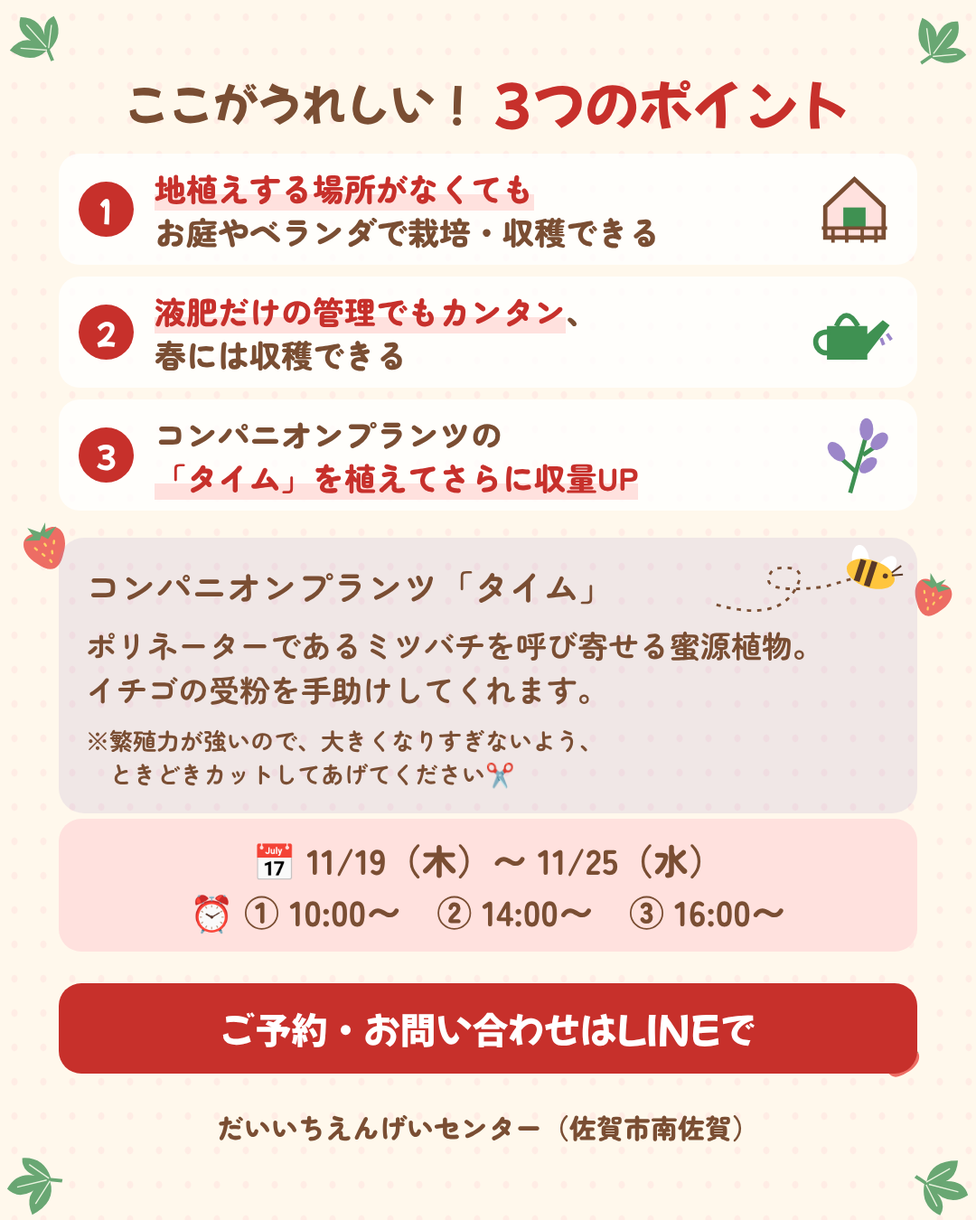
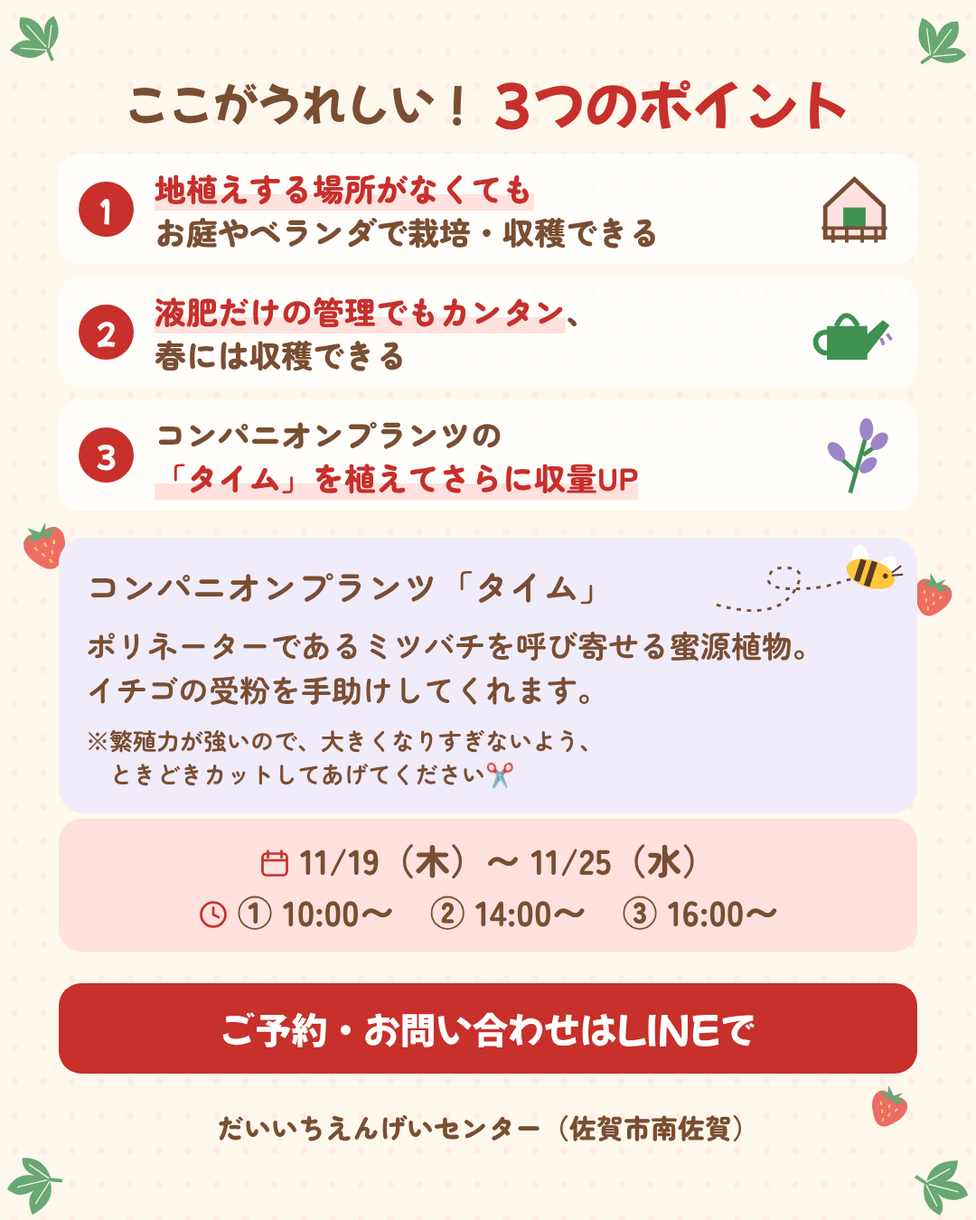
Polish strawberry workshop images after review
Claude-Session: https://claude.ai/code/session_012Ybix9cTiBCZgurjZkAhEi

Changed region(s): [[0.1833, 0.6844, 0.7944, 0.7778], [0.8861, 0.8711, 0.9472, 0.9333]]

diff --git a/workshop-ichigo-2026/src/style.css b/workshop-ichigo-2026/src/style.css
@@ -1,5 +1,10 @@
 :root{--berry:#E8473F;--berry-dk:#C7302B;--pink:#FFE1DE;--cream:#FFF8EC;--leaf:#3F9152;--mint:#E2F2DA;--soil:#7A4E33;--honey:#FFC53D;--thyme:#9C86C9;--pop:"Mochiy Pop One",sans-serif}
-*{box-sizing:border-box}body{margin:0;position:relative;width:1080px;height:1350px;background:radial-gradient(ellipse at center,#ffe1de85 0 3px,transparent 4px) 0 0/32px 38px,var(--cream);color:var(--soil);font:700 32px "Zen Maru Gothic","Noto Color Emoji",sans-serif}main{position:relative;height:100%}.decor i{position:absolute;opacity:.78}.decor{position:absolute;inset:0;pointer-events:none}h1,h2,h3,p,figure{margin:0}h1,h2,.badge,.price,.cta,.letter,.point-row>span{font-family:var(--pop);font-weight:400}h1{text-align:center;font-size:76px;line-height:1.24;letter-spacing:-.045em}em{font-style:normal;color:var(--berry-dk)}h1 em{font-size:1.65em;color:var(--berry);paint-order:stroke fill;-webkit-text-stroke:9px white;text-shadow:0 6px 0 var(--pink)}h2{position:absolute;left:0;right:0;top:71px;display:flex;justify-content:center;align-items:center;gap:14px;font-size:49px;white-space:nowrap}h2 em{font-size:1.2em}.photo{position:absolute;border:14px solid white;border-radius:28px;box-shadow:0 10px 24px rgba(122,78,51,.18);background:white}.photo img{display:block;width:100%;height:100%;border-radius:15px;object-fit:cover;object-position:center 60%}.photo:after{content:"";position:absolute;top:-13px;right:12px;width:119px;height:35px;background:#ffc0bdd9;transform:rotate(13deg);clip-path:polygon(2% 0,100% 0,98% 25%,100% 50%,98% 75%,100% 100%,0 100%,2% 75%,0 50%,2% 25%,0 0)}.badge{position:absolute;width:150px;height:150px;display:grid;place-items:center;transform:rotate(-8deg);color:var(--berry-dk);font-size:32px;filter:drop-shadow(0 4px 0 #b2692640);z-index:2}.badge svg,.badge span{grid-area:1/1}.badge svg{width:100%}.badge span{z-index:1}.begin{display:flex;align-items:center;gap:7px;white-space:nowrap;color:#2e7040;background:var(--mint);border-radius:100px;padding:6px 15px;font-weight:900}.cta{background:var(--berry-dk);color:white;border-radius:25px;text-align:center;display:grid;place-items:center;font-size:40px}footer{position:absolute;left:70px;right:70px;bottom:32px;font-size:26px;font-weight:900}footer span{float:right}.line{width:1040px;height:1040px}.line h1{position:absolute;top:55px;left:190px;right:190px;font-size:72px;white-space:nowrap}.line .badge{top:43px;left:38px}.line .begin{position:absolute;right:32px;top:38px;font-size:30px;gap:5px;padding:5px 11px}.line .begin svg{width:31px;height:34px}.line .primary{left:78px;top:305px;width:648px;height:441px;transform:rotate(-2deg)}.line .secondary{right:70px;top:407px;width:303px;height:315px;transform:rotate(3deg)}.secondary img,.plan .photo img{object-position:center 55%}.line-info{position:absolute;top:767px;left:66px;right:66px;display:grid;grid-template-columns:1.15fr 1fr;gap:18px;text-align:center;font-size:38px;font-weight:900;white-space:nowrap}.line-info div{background:var(--pink);border-radius:22px;padding:6px 10px}.line-info div+div{background:white}.line-info strong{font:400 44px var(--pop);color:var(--berry-dk)}.bring-line{position:absolute;top:843px;left:0;right:0;text-align:center;font-size:32px;font-weight:900}.line .cta{position:absolute;top:902px;left:34px;right:34px;height:96px;box-shadow:0 6px 0 #a92320;background:var(--berry)}
+*{box-sizing:border-box}body{margin:0;position:relative;width:1080px;height:1350px;background:radial-gradient(ellipse at center,#ffe1de85 0 3px,transparent 4px) 0 0/32px 38px,var(--cream);color:var(--soil);font:700 32px "Zen Maru Gothic","Noto Color Emoji",sans-serif}main{position:relative;height:100%}.decor i{position:absolute;opacity:.78}.decor{position:absolute;inset:0;pointer-events:none}h1,h2,h3,p,figure{margin:0}h1,h2,.badge,.price,.cta,.letter,.point-row>span{font-family:var(--pop);font-weight:400}h1{text-align:center;font-size:76px;line-height:1.24;letter-spacing:-.045em}em{font-style:normal;color:var(--berry-dk)}h1 em{font-size:1.65em;color:var(--berry);paint-order:stroke fill;-webkit-text-stroke:9px white;text-shadow:0 6px 0 var(--pink)}h2{position:absolute;left:0;right:0;top:71px;display:flex;justify-content:center;align-items:center;gap:14px;font-size:49px;white-space:nowrap}h2 em{font-size:1.2em}.photo{position:absolute;border:14px solid white;border-radius:28px;box-shadow:0 10px 24px rgba(122,78,51,.18);background:white}.photo img{display:block;width:100%;height:100%;border-radius:15px;object-fit:cover;object-position:center 60%}.photo:after{content:"";position:absolute;top:-13px;right:12px;width:119px;height:35px;background:#ffc0bdd9;transform:rotate(13deg);clip-path:polygon(2% 0,100% 0,98% 25%,100% 50%,98% 75%,100% 100%,0 100%,2% 75%,0 50%,2% 25%,0 0)}.badge{position:absolute;width:150px;height:150px;display:grid;place-items:center;transform:rotate(-8deg);color:var(--berry-dk);font-size:32px;filter:drop-shadow(0 4px 0 #b2692640);z-index:2}.badge svg,.badge span{grid-area:1/1}.badge svg{width:100%}.badge span{z-index:1}.begin{display:flex;align-items:center;gap:7px;white-space:nowrap;color:#2e7040;background:var(--mint);border-radius:100px;padding:6px 15px;font-weight:900}.cta{background:var(--berry-dk);color:white;border-radius:25px;text-align:center;display:grid;place-items:center;font-size:40px}footer{position:absolute;left:70px;right:70px;bottom:32px;font-size:26px;font-weight:900}footer span{float:right}.line{width:1040px;height:1040px}.line h1{position:absolute;top:55px;left:190px;right:190px;font-size:72px;white-space:nowrap}.line .badge{top:43px;left:38px}.line .begin{position:absolute;right:32px;top:38px;font-size:30px;gap:5px;padding:5px 11px}.line .begin svg{width:31px;height:34px}.line .primary{left:78px;top:305px;width:648px;height:441px;transform:rotate(-2deg)}.line .secondary{right:70px;top:407px;width:303px;height:315px;transform:rotate(3deg)}.secondary img{object-position:center 55%}.line-info{position:absolute;top:767px;left:66px;right:66px;display:grid;grid-template-columns:1.15fr 1fr;gap:18px;text-align:center;font-size:38px;font-weight:900;white-space:nowrap}.line-info div{background:var(--pink);border-radius:22px;padding:6px 10px}.line-info div+div{background:white}.line-info strong{font:400 44px var(--pop);color:var(--berry-dk)}.bring-line{position:absolute;top:843px;left:0;right:0;text-align:center;font-size:32px;font-weight:900}.line .cta{position:absolute;top:902px;left:34px;right:34px;height:96px;box-shadow:0 6px 0 #a92320;background:var(--berry)}
 .cover .photo{left:90px;top:53px;width:900px;height:705px;transform:rotate(-1.5deg)}.cover .badge{left:52px;top:34px}.cover h1{position:absolute;top:772px;width:100%;font-size:83px;line-height:1.13}.cover h1 em{font-size:130px}.sub{position:absolute;top:1042px;width:100%;text-align:center;color:#2e7040;font-size:36px;font-weight:900;white-space:nowrap}.schedule{position:absolute;top:1111px;left:64px;right:64px;background:var(--pink);border-radius:22px;text-align:center;padding:13px;font-size:36px;font-weight:900;white-space:nowrap}.cover .begin{position:absolute;right:70px;bottom:78px;font-size:29px}
-.cards{position:absolute;top:180px;left:66px;right:66px;display:grid;gap:24px}.plan-card{position:relative;height:151px;display:flex;align-items:center;gap:16px;background:white;border:5px solid white;border-radius:24px;padding:0 26px;box-shadow:0 8px 19px #7a4e3325;white-space:nowrap}.plan-card b{font-size:40px;font-weight:900}.letter{font-size:38px;color:var(--berry-dk)}.pot{width:135px;flex:none;display:flex;flex-wrap:wrap;justify-content:center;align-content:center}.pot>svg:last-child{margin-top:-4px}.price{margin-left:auto;color:var(--berry-dk);font-size:60px;white-space:nowrap}.price small{font-size:60%;margin-right:.08em}.recommended{border-color:var(--leaf)}.ribbon{position:absolute;right:21px;top:-25px;background:var(--leaf);color:white;padding:3px 16px;border-radius:8px;font:400 25px var(--pop)}.carry{position:absolute;top:721px;left:66px;right:66px;background:var(--mint);border-radius:26px;padding:20px 25px;color:#2d653a}.carry h3{text-align:center;font-size:37px;font-weight:900}.carry>div{display:grid;grid-template-columns:1fr 1fr;margin-top:13px}.carry p{display:flex;align-items:center;gap:11px;justify-content:center;font-size:31px;white-space:nowrap}.carry p+p{border-left:2px dashed #75a77e}.carry .price{font-size:43px;margin-left:0}.plan .photo{top:931px;right:95px;width:306px;height:325px;transform:rotate(2deg)}.caption{position:absolute;right:75px;top:1210px;transform:rotate(-5deg);background:var(--honey);border-radius:4px;padding:5px 16px;font-size:26px;font-weight:900}
-.points{position:absolute;top:170px;left:65px;right:65px;display:grid;gap:13px}.point-row{display:grid;grid-template-columns:65px 1fr 95px;gap:19px;align-items:center;padding:12px 22px;background:#ffffffc9;border-radius:23px;min-height:123px}.point-row>span{display:grid;place-items:center;width:61px;height:61px;background:var(--berry-dk);border-radius:50%;color:white;font-size:32px}.point-row p{font-size:35px;font-weight:900;line-height:1.35;white-space:nowrap}mark{color:var(--berry-dk);background:linear-gradient(transparent 65%,var(--pink) 65%)}.thyme{position:absolute;top:595px;left:65px;right:65px;background:#9c86c926;border-radius:28px;padding:25px 30px}.thyme h3{font-size:39px;padding-bottom:14px}.thyme p{font-size:34px;line-height:1.43}.thyme .note{font-size:26px;margin-top:13px}.bee{position:absolute;width:218px;right:7px;top:5px}.dates{position:absolute;top:906px;left:65px;right:65px;background:var(--pink);border-radius:25px;text-align:center;padding:17px;font-weight:900;font-size:39px;line-height:1.45;white-space:nowrap}.point .cta{position:absolute;top:1088px;left:65px;right:65px;height:100px}.point footer{text-align:center;bottom:81px;font-size:30px}
+.cards{position:absolute;top:180px;left:66px;right:66px;display:grid;gap:24px}.plan-card{position:relative;height:151px;display:flex;align-items:center;gap:16px;background:white;border:5px solid white;border-radius:24px;padding:0 26px;box-shadow:0 8px 19px #7a4e3325;white-space:nowrap}.plan-card b{font-size:40px;font-weight:900}.letter{font-size:38px;color:var(--berry-dk)}.pot{width:135px;flex:none;display:flex;flex-wrap:wrap;justify-content:center;align-content:center}.pot>svg:last-child{margin-top:-4px}.price{margin-left:auto;color:var(--berry-dk);font-size:60px;white-space:nowrap}.price small{font-size:60%;margin-right:.08em}.recommended{border-color:var(--leaf)}.ribbon{position:absolute;right:21px;top:-25px;background:var(--leaf);color:white;padding:3px 16px;border-radius:8px;font:400 25px var(--pop)}.carry{position:absolute;top:721px;left:66px;right:66px;background:var(--mint);border-radius:26px;padding:20px 25px;color:#2d653a}.carry h3{text-align:center;font-size:37px;font-weight:900}.carry>div{display:grid;grid-template-columns:1fr 1fr;margin-top:13px}.carry p{display:flex;align-items:center;gap:11px;justify-content:center;font-size:31px;white-space:nowrap}.carry p+p{border-left:2px dashed #75a77e}.carry .price{font-size:43px;margin-left:0}.plan .photo{top:905px;width:440px;height:302px}.plan .primary{left:91px;transform:rotate(-2deg)}.plan .secondary{right:91px;transform:rotate(2deg)}.caption{position:absolute;left:50%;top:1178px;translate:-50% 0;transform:rotate(-5deg);background:var(--honey);border-radius:4px;padding:5px 16px;font-size:26px;font-weight:900}
+.points{position:absolute;top:170px;left:65px;right:65px;display:grid;gap:13px}.point-row{display:grid;grid-template-columns:65px 1fr 95px;gap:19px;align-items:center;padding:12px 22px;background:#ffffffc9;border-radius:23px;min-height:123px}.point-row>span{display:grid;place-items:center;width:61px;height:61px;background:var(--berry-dk);border-radius:50%;color:white;font-size:32px}.point-row p{font-size:35px;font-weight:900;line-height:1.35;white-space:nowrap}mark{color:var(--berry-dk);background:linear-gradient(transparent 65%,var(--pink) 65%)}.thyme{position:absolute;top:595px;left:65px;right:65px;background:#F1ECFA;border-radius:28px;padding:25px 30px}.thyme h3{font-size:39px;padding-bottom:14px}.thyme p{font-size:34px;line-height:1.43}.thyme .note{font-size:26px;margin-top:13px}.bee{position:absolute;width:218px;right:7px;top:5px}.dates{position:absolute;top:906px;left:65px;right:65px;background:var(--pink);border-radius:25px;text-align:center;padding:17px;font-weight:900;font-size:39px;line-height:1.45;white-space:nowrap}.point .cta{position:absolute;top:1088px;left:65px;right:65px;height:100px}.point footer{text-align:center;bottom:81px;font-size:30px}
+
+.inline-icon{vertical-align:-.13em;margin-right:.23em;color:var(--berry-dk)}
+.carry .inline-icon{color:var(--leaf)}
+.plan footer{bottom:80px}
+.plan-booking{position:absolute;left:66px;right:66px;bottom:23px;padding:6px;background:var(--pink);border-radius:16px;text-align:center;font-size:24px;font-weight:900;white-space:nowrap}

diff --git a/workshop-ichigo-2026/src/insta_02_plan.html b/workshop-ichigo-2026/src/insta_02_plan.html
@@ -5,4 +5,4 @@
 <symbol id="thyme" viewBox="0 0 100 100"><path stroke="#3F9152" stroke-width="5" fill="none" d="M45 94 66 19M52 70 29 49m31 1 19-13"/><g fill="#9C86C9"><ellipse cx="64" cy="20" rx="8" ry="13"/><ellipse cx="79" cy="34" rx="8" ry="12" transform="rotate(45 79 34)"/><ellipse cx="29" cy="46" rx="8" ry="13" transform="rotate(-40 29 46)"/><ellipse cx="66" cy="62" rx="7" ry="12" transform="rotate(50 66 62)"/></g></symbol>
 <symbol id="house" viewBox="0 0 100 100"><path fill="#FFE1DE" stroke="#7A4E33" stroke-width="5" d="M16 47 50 15l34 32v36H16Z"/><path fill="#3F9152" d="M37 48h26v23H37z"/><path stroke="#7A4E33" stroke-width="4" d="M12 72h76M25 72v17m16-17v17m18-17v17m16-17v17"/></symbol>
 <symbol id="water" viewBox="0 0 100 100"><path fill="#3F9152" d="M18 43h47v39H18zM59 58l24-22 8 6-27 35Z"/><path fill="none" stroke="#3F9152" stroke-width="6" d="M22 50C-3 47 2 77 20 74m9-31q11-25 25 0"/><path stroke="#9C86C9" stroke-width="4" d="m88 52 5 7m-12-2 3 8"/></symbol>
-</defs></svg><div class="decor"><i style="left:10px;top:10px;transform:rotate(-38deg)"><svg width="68" height="68" aria-hidden="true"><use href="#leaf"/></svg></i><i style="left:1000px;top:12px;transform:rotate(40deg)"><svg width="70" height="70" aria-hidden="true"><use href="#leaf"/></svg></i><i style="left:10px;top:1271px;transform:rotate(-100deg)"><svg width="70" height="70" aria-hidden="true"><use href="#leaf"/></svg></i><i style="left:1001px;top:1270px;transform:rotate(108deg)"><svg width="70" height="70" aria-hidden="true"><use href="#leaf"/></svg></i><i style="left:22px;top:575px;transform:rotate(-21deg)"><svg width="61" height="61" aria-hidden="true"><use href="#berry"/></svg></i><i style="left:1003px;top:633px;transform:rotate(19deg)"><svg width="54" height="54" aria-hidden="true"><use href="#berry"/></svg></i><i style="left:968px;top:1145px;transform:rotate(24deg)"><svg width="52" height="52" aria-hidden="true"><use href="#berry"/></svg></i></div><main><h2><svg width="66" height="66" aria-hidden="true"><use href="#berry"/></svg>えらべる <em>3つのプラン</em></h2><div class="cards"><article class="plan-card "><div class="pot"><svg width="37" height="37" aria-hidden="true"><use href="#berry"/></svg><svg viewBox="0 0 125 47" width="125" height="47" aria-hidden="true"><path fill="#E4AD88" d="M8 10h109l-13 33H21Z"/><rect fill="#BA7856" x="3" y="3" width="119" height="12" rx="5"/></svg></div><span class="letter">A.</span><b>1株植え</b><strong class="price"><small>¥</small>1,800</strong></article><article class="plan-card "><div class="pot"><svg width="37" height="37" aria-hidden="true"><use href="#berry"/></svg><svg width="37" height="37" aria-hidden="true"><use href="#berry"/></svg><svg viewBox="0 0 125 47" width="125" height="47" aria-hidden="true"><path fill="#E4AD88" d="M8 10h109l-13 33H21Z"/><rect fill="#BA7856" x="3" y="3" width="119" height="12" rx="5"/></svg></div><span class="letter">B.</span><b>2株植え</b><strong class="price"><small>¥</small>3,000</strong></article><article class="plan-card recommended"><div class="pot"><svg width="37" height="37" aria-hidden="true"><use href="#berry"/></svg><svg width="37" height="37" aria-hidden="true"><use href="#berry"/></svg><svg width="41" height="41" aria-hidden="true"><use href="#thyme"/></svg><svg viewBox="0 0 125 47" width="125" height="47" aria-hidden="true"><path fill="#E4AD88" d="M8 10h109l-13 33H21Z"/><rect fill="#BA7856" x="3" y="3" width="119" height="12" rx="5"/></svg></div><span class="letter">C.</span><b>2株＋タイムの混植</b><strong class="price"><small>¥</small>3,200</strong><span class="ribbon">おすすめ！</span></article></div><section class="carry"><h3>♻ 夏野菜後のプランター持ち込みの方！</h3><div><p>❶ 1株植え <strong class="price"><small>¥</small>1,500</strong></p><p>❷ 贅沢3株植え <strong class="price"><small>¥</small>3,000</strong></p></div></section><figure class="photo "><img src="../photos/photo2.jpg" alt="イチゴのプランター"></figure><div class="caption">完成イメージ</div><footer>だいいちえんげいセンター</footer></main></body></html>
+</defs></svg><div class="decor"><i style="left:10px;top:10px;transform:rotate(-38deg)"><svg width="68" height="68" aria-hidden="true"><use href="#leaf"/></svg></i><i style="left:1000px;top:12px;transform:rotate(40deg)"><svg width="70" height="70" aria-hidden="true"><use href="#leaf"/></svg></i><i style="left:10px;top:1271px;transform:rotate(-100deg)"><svg width="70" height="70" aria-hidden="true"><use href="#leaf"/></svg></i><i style="left:1001px;top:1270px;transform:rotate(108deg)"><svg width="70" height="70" aria-hidden="true"><use href="#leaf"/></svg></i><i style="left:22px;top:575px;transform:rotate(-21deg)"><svg width="61" height="61" aria-hidden="true"><use href="#berry"/></svg></i><i style="left:1003px;top:633px;transform:rotate(19deg)"><svg width="54" height="54" aria-hidden="true"><use href="#berry"/></svg></i><i style="left:968px;top:1145px;transform:rotate(24deg)"><svg width="52" height="52" aria-hidden="true"><use href="#berry"/></svg></i></div><main><h2><svg width="66" height="66" aria-hidden="true"><use href="#berry"/></svg>えらべる <em>3つのプラン</em></h2><div class="cards"><article class="plan-card "><div class="pot"><svg width="37" height="37" aria-hidden="true"><use href="#berry"/></svg><svg viewBox="0 0 125 47" width="125" height="47" aria-hidden="true"><path fill="#E4AD88" d="M8 10h109l-13 33H21Z"/><rect fill="#BA7856" x="3" y="3" width="119" height="12" rx="5"/></svg></div><span class="letter">A.</span><b>1株植え</b><strong class="price"><small>¥</small>1,800</strong></article><article class="plan-card "><div class="pot"><svg width="37" height="37" aria-hidden="true"><use href="#berry"/></svg><svg width="37" height="37" aria-hidden="true"><use href="#berry"/></svg><svg viewBox="0 0 125 47" width="125" height="47" aria-hidden="true"><path fill="#E4AD88" d="M8 10h109l-13 33H21Z"/><rect fill="#BA7856" x="3" y="3" width="119" height="12" rx="5"/></svg></div><span class="letter">B.</span><b>2株植え</b><strong class="price"><small>¥</small>3,000</strong></article><article class="plan-card recommended"><div class="pot"><svg width="37" height="37" aria-hidden="true"><use href="#berry"/></svg><svg width="37" height="37" aria-hidden="true"><use href="#berry"/></svg><svg width="41" height="41" aria-hidden="true"><use href="#thyme"/></svg><svg viewBox="0 0 125 47" width="125" height="47" aria-hidden="true"><path fill="#E4AD88" d="M8 10h109l-13 33H21Z"/><rect fill="#BA7856" x="3" y="3" width="119" height="12" rx="5"/></svg></div><span class="letter">C.</span><b>2株＋タイムの混植</b><strong class="price"><small>¥</small>3,200</strong><span class="ribbon">おすすめ！</span></article></div><section class="carry"><h3><svg class="inline-icon" viewBox="0 0 24 24" width="36" height="36" fill="none" stroke="currentColor" stroke-width="1.8" stroke-linecap="round" stroke-linejoin="round" aria-hidden="true"><path d="m8 7 2-3a2 2 0 0 1 4 0l3 5m-4-1 4 1 1-4m1 8 2 3a2 2 0 0 1-2 3h-6m3-3-3 3 3 3m-7-3H5a2 2 0 0 1-2-3l3-6m1 4-1-4-4 1"/></svg>夏野菜後のプランター持ち込みの方！</h3><div><p>❶ 1株植え <strong class="price"><small>¥</small>1,500</strong></p><p>❷ 贅沢3株植え <strong class="price"><small>¥</small>3,000</strong></p></div></section><figure class="photo primary"><img src="../photos/photo1.jpg" alt="3つの容器に植えたイチゴ"></figure><figure class="photo secondary"><img src="../photos/photo2.jpg" alt="イチゴのプランター"></figure><div class="caption">完成イメージ</div><footer>だいいちえんげいセンター</footer><div class="plan-booking">11/19(木)〜11/25(水)　ご予約はLINEで</div></main></body></html>

diff --git a/workshop-ichigo-2026/src/insta_03_point.html b/workshop-ichigo-2026/src/insta_03_point.html
@@ -5,4 +5,4 @@
 <symbol id="thyme" viewBox="0 0 100 100"><path stroke="#3F9152" stroke-width="5" fill="none" d="M45 94 66 19M52 70 29 49m31 1 19-13"/><g fill="#9C86C9"><ellipse cx="64" cy="20" rx="8" ry="13"/><ellipse cx="79" cy="34" rx="8" ry="12" transform="rotate(45 79 34)"/><ellipse cx="29" cy="46" rx="8" ry="13" transform="rotate(-40 29 46)"/><ellipse cx="66" cy="62" rx="7" ry="12" transform="rotate(50 66 62)"/></g></symbol>
 <symbol id="house" viewBox="0 0 100 100"><path fill="#FFE1DE" stroke="#7A4E33" stroke-width="5" d="M16 47 50 15l34 32v36H16Z"/><path fill="#3F9152" d="M37 48h26v23H37z"/><path stroke="#7A4E33" stroke-width="4" d="M12 72h76M25 72v17m16-17v17m18-17v17m16-17v17"/></symbol>
 <symbol id="water" viewBox="0 0 100 100"><path fill="#3F9152" d="M18 43h47v39H18zM59 58l24-22 8 6-27 35Z"/><path fill="none" stroke="#3F9152" stroke-width="6" d="M22 50C-3 47 2 77 20 74m9-31q11-25 25 0"/><path stroke="#9C86C9" stroke-width="4" d="m88 52 5 7m-12-2 3 8"/></symbol>
-</defs></svg><div class="decor"><i style="left:10px;top:10px;transform:rotate(-38deg)"><svg width="68" height="68" aria-hidden="true"><use href="#leaf"/></svg></i><i style="left:1000px;top:12px;transform:rotate(40deg)"><svg width="70" height="70" aria-hidden="true"><use href="#leaf"/></svg></i><i style="left:10px;top:1271px;transform:rotate(-100deg)"><svg width="70" height="70" aria-hidden="true"><use href="#leaf"/></svg></i><i style="left:1001px;top:1270px;transform:rotate(108deg)"><svg width="70" height="70" aria-hidden="true"><use href="#leaf"/></svg></i><i style="left:22px;top:575px;transform:rotate(-21deg)"><svg width="61" height="61" aria-hidden="true"><use href="#berry"/></svg></i><i style="left:1003px;top:633px;transform:rotate(19deg)"><svg width="54" height="54" aria-hidden="true"><use href="#berry"/></svg></i><i style="left:968px;top:1145px;transform:rotate(24deg)"><svg width="52" height="52" aria-hidden="true"><use href="#berry"/></svg></i></div><main><h2>ここがうれしい！ <em>3つのポイント</em></h2><div class="points"><article class="point-row"><span>1</span><p><mark>地植えする場所がなくても</mark><br>お庭やベランダで栽培・収穫できる</p><svg width="95" height="95" aria-hidden="true"><use href="#house"/></svg></article><article class="point-row"><span>2</span><p><mark>液肥だけの管理でもカンタン</mark>、<br>春には収穫できる</p><svg width="95" height="95" aria-hidden="true"><use href="#water"/></svg></article><article class="point-row"><span>3</span><p>コンパニオンプランツの<br><mark>「タイム」を植えてさらに収量UP</mark></p><svg width="95" height="95" aria-hidden="true"><use href="#thyme"/></svg></article></div><section class="thyme"><svg class="bee" viewBox="0 0 230 91" aria-hidden="true"><path d="M3 73Q71 92 93 58T70 31Q43 62 129 52l31-9" fill="none" stroke="#7A4E33" stroke-width="3" stroke-dasharray="5 7"/><g transform="translate(183 37) rotate(18)"><ellipse fill="white" cx="-10" cy="-18" rx="10" ry="17" transform="rotate(-24)"/><ellipse fill="white" cx="9" cy="-18" rx="9" ry="15" transform="rotate(22)"/><ellipse fill="#FFC53D" rx="29" ry="16"/><path stroke="#583827" stroke-width="7" d="M-13-13v26M0-15v30"/><circle cx="17" cy="-3" r="3" fill="#583827"/><path stroke="#583827" stroke-width="2" fill="none" d="m23-9 8-11m-7 14 12-5"/></g></svg><h3>コンパニオンプランツ「タイム」</h3><p>ポリネーターであるミツバチを呼び寄せる蜜源植物。<br>イチゴの受粉を手助けしてくれます。</p><p class="note">※繁殖力が強いので、大きくなりすぎないよう、<br>　ときどきカットしてあげてください✂</p></section><div class="dates"><div>📅 11/19（木）〜 11/25（水）</div><div>⏰ ① 10:00〜　② 14:00〜　③ 16:00〜</div></div><div class="cta">ご予約・お問い合わせはLINEで</div><footer>だいいちえんげいセンター（佐賀市南佐賀）</footer></main></body></html>
+</defs></svg><div class="decor"><i style="left:10px;top:10px;transform:rotate(-38deg)"><svg width="68" height="68" aria-hidden="true"><use href="#leaf"/></svg></i><i style="left:1000px;top:12px;transform:rotate(40deg)"><svg width="70" height="70" aria-hidden="true"><use href="#leaf"/></svg></i><i style="left:10px;top:1271px;transform:rotate(-100deg)"><svg width="70" height="70" aria-hidden="true"><use href="#leaf"/></svg></i><i style="left:1001px;top:1270px;transform:rotate(108deg)"><svg width="70" height="70" aria-hidden="true"><use href="#leaf"/></svg></i><i style="left:22px;top:575px;transform:rotate(-21deg)"><svg width="61" height="61" aria-hidden="true"><use href="#berry"/></svg></i><i style="left:1003px;top:633px;transform:rotate(19deg)"><svg width="54" height="54" aria-hidden="true"><use href="#berry"/></svg></i><i style="left:955px;top:1200px;transform:rotate(24deg)"><svg width="52" height="52" aria-hidden="true"><use href="#berry"/></svg></i></div><main><h2>ここがうれしい！ <em>3つのポイント</em></h2><div class="points"><article class="point-row"><span>1</span><p><mark>地植えする場所がなくても</mark><br>お庭やベランダで栽培・収穫できる</p><svg width="95" height="95" aria-hidden="true"><use href="#house"/></svg></article><article class="point-row"><span>2</span><p><mark>液肥だけの管理でもカンタン</mark>、<br>春には収穫できる</p><svg width="95" height="95" aria-hidden="true"><use href="#water"/></svg></article><article class="point-row"><span>3</span><p>コンパニオンプランツの<br><mark>「タイム」を植えてさらに収量UP</mark></p><svg width="95" height="95" aria-hidden="true"><use href="#thyme"/></svg></article></div><section class="thyme"><svg class="bee" viewBox="0 0 230 91" aria-hidden="true"><path d="M3 73Q71 92 93 58T70 31Q43 62 129 52l31-9" fill="none" stroke="#7A4E33" stroke-width="3" stroke-dasharray="5 7"/><g transform="translate(183 37) rotate(18)"><ellipse fill="white" cx="-10" cy="-18" rx="10" ry="17" transform="rotate(-24)"/><ellipse fill="white" cx="9" cy="-18" rx="9" ry="15" transform="rotate(22)"/><ellipse fill="#FFC53D" rx="29" ry="16"/><path stroke="#583827" stroke-width="7" d="M-13-13v26M0-15v30"/><circle cx="17" cy="-3" r="3" fill="#583827"/><path stroke="#583827" stroke-width="2" fill="none" d="m23-9 8-11m-7 14 12-5"/></g></svg><h3>コンパニオンプランツ「タイム」</h3><p>ポリネーターであるミツバチを呼び寄せる蜜源植物。<br>イチゴの受粉を手助けしてくれます。</p><p class="note">※繁殖力が強いので、大きくなりすぎないよう、<br>　ときどきカットしてあげてください✂</p></section><div class="dates"><div><svg class="inline-icon" viewBox="0 0 24 24" width="36" height="36" fill="none" stroke="currentColor" stroke-width="1.8" stroke-linecap="round" stroke-linejoin="round" aria-hidden="true"><rect x="3" y="5" width="18" height="16" rx="3"/><path d="M7 3v5m10-5v5M3 10h18"/></svg>11/19（木）〜 11/25（水）</div><div><svg class="inline-icon" viewBox="0 0 24 24" width="36" height="36" fill="none" stroke="currentColor" stroke-width="1.8" stroke-linecap="round" stroke-linejoin="round" aria-hidden="true"><circle cx="12" cy="12" r="9"/><path d="M12 7v5l4 2"/></svg>① 10:00〜　② 14:00〜　③ 16:00〜</div></div><div class="cta">ご予約・お問い合わせはLINEで</div><footer>だいいちえんげいセンター（佐賀市南佐賀）</footer></main></body></html>

diff --git a/workshop-ichigo-2026/src/line_rich_1040.html b/workshop-ichigo-2026/src/line_rich_1040.html
@@ -5,4 +5,4 @@
 <symbol id="thyme" viewBox="0 0 100 100"><path stroke="#3F9152" stroke-width="5" fill="none" d="M45 94 66 19M52 70 29 49m31 1 19-13"/><g fill="#9C86C9"><ellipse cx="64" cy="20" rx="8" ry="13"/><ellipse cx="79" cy="34" rx="8" ry="12" transform="rotate(45 79 34)"/><ellipse cx="29" cy="46" rx="8" ry="13" transform="rotate(-40 29 46)"/><ellipse cx="66" cy="62" rx="7" ry="12" transform="rotate(50 66 62)"/></g></symbol>
 <symbol id="house" viewBox="0 0 100 100"><path fill="#FFE1DE" stroke="#7A4E33" stroke-width="5" d="M16 47 50 15l34 32v36H16Z"/><path fill="#3F9152" d="M37 48h26v23H37z"/><path stroke="#7A4E33" stroke-width="4" d="M12 72h76M25 72v17m16-17v17m18-17v17m16-17v17"/></symbol>
 <symbol id="water" viewBox="0 0 100 100"><path fill="#3F9152" d="M18 43h47v39H18zM59 58l24-22 8 6-27 35Z"/><path fill="none" stroke="#3F9152" stroke-width="6" d="M22 50C-3 47 2 77 20 74m9-31q11-25 25 0"/><path stroke="#9C86C9" stroke-width="4" d="m88 52 5 7m-12-2 3 8"/></symbol>
-</defs></svg><div class="decor"><i style="left:10px;top:10px;transform:rotate(-38deg)"><svg width="68" height="68" aria-hidden="true"><use href="#leaf"/></svg></i><i style="left:960px;top:12px;transform:rotate(40deg)"><svg width="70" height="70" aria-hidden="true"><use href="#leaf"/></svg></i><i style="left:10px;top:961px;transform:rotate(-100deg)"><svg width="70" height="70" aria-hidden="true"><use href="#leaf"/></svg></i><i style="left:961px;top:960px;transform:rotate(108deg)"><svg width="70" height="70" aria-hidden="true"><use href="#leaf"/></svg></i><i style="left:22px;top:420px;transform:rotate(-21deg)"><svg width="61" height="61" aria-hidden="true"><use href="#berry"/></svg></i><i style="left:963px;top:478px;transform:rotate(19deg)"><svg width="54" height="54" aria-hidden="true"><use href="#berry"/></svg></i><i style="left:928px;top:835px;transform:rotate(24deg)"><svg width="52" height="52" aria-hidden="true"><use href="#berry"/></svg></i></div><main><div class="badge"><svg viewBox="0 0 150 150"><polygon fill="#FFC53D" points="146.00,75.00 139.44,83.48 143.58,93.38 135.05,99.87 136.49,110.50 126.57,114.57 125.20,125.20 114.57,126.57 110.50,136.49 99.87,135.05 93.38,143.58 83.48,139.44 75.00,146.00 66.52,139.44 56.62,143.58 50.13,135.05 39.50,136.49 35.43,126.57 24.80,125.20 23.43,114.57 13.51,110.50 14.95,99.87 6.42,93.38 10.56,83.48 4.00,75.00 10.56,66.52 6.42,56.62 14.95,50.13 13.51,39.50 23.43,35.43 24.80,24.80 35.43,23.43 39.50,13.51 50.13,14.95 56.62,6.42 66.52,10.56 75.00,4.00 83.48,10.56 93.38,6.42 99.87,14.95 110.50,13.51 114.57,23.43 125.20,24.80 126.57,35.43 136.49,39.50 135.05,50.13 143.58,56.62 139.44,66.52"/></svg><span>第二弾</span></div><div class="begin"><svg width="42" height="42" aria-hidden="true"><use href="#begin"/></svg>はじめてさん大歓迎</div><h1>お家で<em>イチゴ</em>の<br>ワークショップ</h1><figure class="photo primary"><img src="../photos/photo1.jpg" alt="イチゴのプランター"></figure><figure class="photo secondary"><img src="../photos/photo2.jpg" alt="イチゴのプランター"></figure><div class="line-info"><div>📅 11/19(木)〜25(水)</div><div>1株 <strong>¥1,800〜</strong></div></div><div class="bring-line">持ち込みなら ¥1,500〜</div><div class="cta">くわしく・ご予約はこちら ▶</div></main></body></html>
+</defs></svg><div class="decor"><i style="left:10px;top:10px;transform:rotate(-38deg)"><svg width="68" height="68" aria-hidden="true"><use href="#leaf"/></svg></i><i style="left:960px;top:12px;transform:rotate(40deg)"><svg width="70" height="70" aria-hidden="true"><use href="#leaf"/></svg></i><i style="left:10px;top:961px;transform:rotate(-100deg)"><svg width="70" height="70" aria-hidden="true"><use href="#leaf"/></svg></i><i style="left:961px;top:960px;transform:rotate(108deg)"><svg width="70" height="70" aria-hidden="true"><use href="#leaf"/></svg></i><i style="left:22px;top:420px;transform:rotate(-21deg)"><svg width="61" height="61" aria-hidden="true"><use href="#berry"/></svg></i><i style="left:963px;top:478px;transform:rotate(19deg)"><svg width="54" height="54" aria-hidden="true"><use href="#berry"/></svg></i><i style="left:928px;top:835px;transform:rotate(24deg)"><svg width="52" height="52" aria-hidden="true"><use href="#berry"/></svg></i></div><main><div class="badge"><svg viewBox="0 0 150 150"><polygon fill="#FFC53D" points="146.00,75.00 139.44,83.48 143.58,93.38 135.05,99.87 136.49,110.50 126.57,114.57 125.20,125.20 114.57,126.57 110.50,136.49 99.87,135.05 93.38,143.58 83.48,139.44 75.00,146.00 66.52,139.44 56.62,143.58 50.13,135.05 39.50,136.49 35.43,126.57 24.80,125.20 23.43,114.57 13.51,110.50 14.95,99.87 6.42,93.38 10.56,83.48 4.00,75.00 10.56,66.52 6.42,56.62 14.95,50.13 13.51,39.50 23.43,35.43 24.80,24.80 35.43,23.43 39.50,13.51 50.13,14.95 56.62,6.42 66.52,10.56 75.00,4.00 83.48,10.56 93.38,6.42 99.87,14.95 110.50,13.51 114.57,23.43 125.20,24.80 126.57,35.43 136.49,39.50 135.05,50.13 143.58,56.62 139.44,66.52"/></svg><span>第二弾</span></div><div class="begin"><svg width="42" height="42" aria-hidden="true"><use href="#begin"/></svg>はじめてさん大歓迎</div><h1>お家で<em>イチゴ</em>の<br>ワークショップ</h1><figure class="photo primary"><img src="../photos/photo1.jpg" alt="イチゴのプランター"></figure><figure class="photo secondary"><img src="../photos/photo2.jpg" alt="イチゴのプランター"></figure><div class="line-info"><div><svg class="inline-icon" viewBox="0 0 24 24" width="36" height="36" fill="none" stroke="currentColor" stroke-width="1.8" stroke-linecap="round" stroke-linejoin="round" aria-hidden="true"><rect x="3" y="5" width="18" height="16" rx="3"/><path d="M7 3v5m10-5v5M3 10h18"/></svg>11/19(木)〜25(水)</div><div>1株 <strong>¥1,800〜</strong></div></div><div class="bring-line">持ち込みなら ¥1,500〜</div><div class="cta">くわしく・ご予約はこちら ▶</div></main></body></html>

diff --git a/workshop-ichigo-2026/src/insta_01_cover.html b/workshop-ichigo-2026/src/insta_01_cover.html
@@ -5,4 +5,4 @@
 <symbol id="thyme" viewBox="0 0 100 100"><path stroke="#3F9152" stroke-width="5" fill="none" d="M45 94 66 19M52 70 29 49m31 1 19-13"/><g fill="#9C86C9"><ellipse cx="64" cy="20" rx="8" ry="13"/><ellipse cx="79" cy="34" rx="8" ry="12" transform="rotate(45 79 34)"/><ellipse cx="29" cy="46" rx="8" ry="13" transform="rotate(-40 29 46)"/><ellipse cx="66" cy="62" rx="7" ry="12" transform="rotate(50 66 62)"/></g></symbol>
 <symbol id="house" viewBox="0 0 100 100"><path fill="#FFE1DE" stroke="#7A4E33" stroke-width="5" d="M16 47 50 15l34 32v36H16Z"/><path fill="#3F9152" d="M37 48h26v23H37z"/><path stroke="#7A4E33" stroke-width="4" d="M12 72h76M25 72v17m16-17v17m18-17v17m16-17v17"/></symbol>
 <symbol id="water" viewBox="0 0 100 100"><path fill="#3F9152" d="M18 43h47v39H18zM59 58l24-22 8 6-27 35Z"/><path fill="none" stroke="#3F9152" stroke-width="6" d="M22 50C-3 47 2 77 20 74m9-31q11-25 25 0"/><path stroke="#9C86C9" stroke-width="4" d="m88 52 5 7m-12-2 3 8"/></symbol>
-</defs></svg><div class="decor"><i style="left:10px;top:10px;transform:rotate(-38deg)"><svg width="68" height="68" aria-hidden="true"><use href="#leaf"/></svg></i><i style="left:1000px;top:12px;transform:rotate(40deg)"><svg width="70" height="70" aria-hidden="true"><use href="#leaf"/></svg></i><i style="left:10px;top:1271px;transform:rotate(-100deg)"><svg width="70" height="70" aria-hidden="true"><use href="#leaf"/></svg></i><i style="left:1001px;top:1270px;transform:rotate(108deg)"><svg width="70" height="70" aria-hidden="true"><use href="#leaf"/></svg></i><i style="left:22px;top:575px;transform:rotate(-21deg)"><svg width="61" height="61" aria-hidden="true"><use href="#berry"/></svg></i><i style="left:1003px;top:633px;transform:rotate(19deg)"><svg width="54" height="54" aria-hidden="true"><use href="#berry"/></svg></i><i style="left:968px;top:1145px;transform:rotate(24deg)"><svg width="52" height="52" aria-hidden="true"><use href="#berry"/></svg></i></div><main><figure class="photo "><img src="../photos/photo1.jpg" alt="イチゴのプランター"></figure><div class="badge"><svg viewBox="0 0 150 150"><polygon fill="#FFC53D" points="146.00,75.00 139.44,83.48 143.58,93.38 135.05,99.87 136.49,110.50 126.57,114.57 125.20,125.20 114.57,126.57 110.50,136.49 99.87,135.05 93.38,143.58 83.48,139.44 75.00,146.00 66.52,139.44 56.62,143.58 50.13,135.05 39.50,136.49 35.43,126.57 24.80,125.20 23.43,114.57 13.51,110.50 14.95,99.87 6.42,93.38 10.56,83.48 4.00,75.00 10.56,66.52 6.42,56.62 14.95,50.13 13.51,39.50 23.43,35.43 24.80,24.80 35.43,23.43 39.50,13.51 50.13,14.95 56.62,6.42 66.52,10.56 75.00,4.00 83.48,10.56 93.38,6.42 99.87,14.95 110.50,13.51 114.57,23.43 125.20,24.80 126.57,35.43 136.49,39.50 135.05,50.13 143.58,56.62 139.44,66.52"/></svg><span>第二弾</span></div><h1>お家で<em>イチゴ</em>の<br>ワークショップ</h1><p class="sub">〜プランターで楽しくイチゴを収穫してみよう！〜</p><div class="schedule">11/19(木)〜11/25(水)　① 10:00 ② 14:00 ③ 16:00</div><div class="begin"><svg width="42" height="42" aria-hidden="true"><use href="#begin"/></svg>はじめてさん大歓迎</div><footer>だいいちえんげいセンター<span>スワイプしてね →</span></footer></main></body></html>
+</defs></svg><div class="decor"><i style="left:10px;top:10px;transform:rotate(-38deg)"><svg width="68" height="68" aria-hidden="true"><use href="#leaf"/></svg></i><i style="left:1000px;top:12px;transform:rotate(40deg)"><svg width="70" height="70" aria-hidden="true"><use href="#leaf"/></svg></i><i style="left:10px;top:1271px;transform:rotate(-100deg)"><svg width="70" height="70" aria-hidden="true"><use href="#leaf"/></svg></i><i style="left:1001px;top:1270px;transform:rotate(108deg)"><svg width="70" height="70" aria-hidden="true"><use href="#leaf"/></svg></i><i style="left:22px;top:575px;transform:rotate(-21deg)"><svg width="61" height="61" aria-hidden="true"><use href="#berry"/></svg></i><i style="left:1003px;top:633px;transform:rotate(19deg)"><svg width="54" height="54" aria-hidden="true"><use href="#berry"/></svg></i><i style="left:972px;top:1038px;transform:rotate(24deg)"><svg width="52" height="52" aria-hidden="true"><use href="#berry"/></svg></i></div><main><figure class="photo "><img src="../photos/photo1.jpg" alt="イチゴのプランター"></figure><div class="badge"><svg viewBox="0 0 150 150"><polygon fill="#FFC53D" points="146.00,75.00 139.44,83.48 143.58,93.38 135.05,99.87 136.49,110.50 126.57,114.57 125.20,125.20 114.57,126.57 110.50,136.49 99.87,135.05 93.38,143.58 83.48,139.44 75.00,146.00 66.52,139.44 56.62,143.58 50.13,135.05 39.50,136.49 35.43,126.57 24.80,125.20 23.43,114.57 13.51,110.50 14.95,99.87 6.42,93.38 10.56,83.48 4.00,75.00 10.56,66.52 6.42,56.62 14.95,50.13 13.51,39.50 23.43,35.43 24.80,24.80 35.43,23.43 39.50,13.51 50.13,14.95 56.62,6.42 66.52,10.56 75.00,4.00 83.48,10.56 93.38,6.42 99.87,14.95 110.50,13.51 114.57,23.43 125.20,24.80 126.57,35.43 136.49,39.50 135.05,50.13 143.58,56.62 139.44,66.52"/></svg><span>第二弾</span></div><h1>お家で<em>イチゴ</em>の<br>ワークショップ</h1><p class="sub">〜プランターで楽しくイチゴを収穫してみよう！〜</p><div class="schedule">11/19(木)〜11/25(水)　① 10:00 ② 14:00 ③ 16:00</div><div class="begin"><svg width="42" height="42" aria-hidden="true"><use href="#begin"/></svg>はじめてさん大歓迎</div><footer>だいいちえんげいセンター<span>スワイプしてね →</span></footer></main></body></html>
